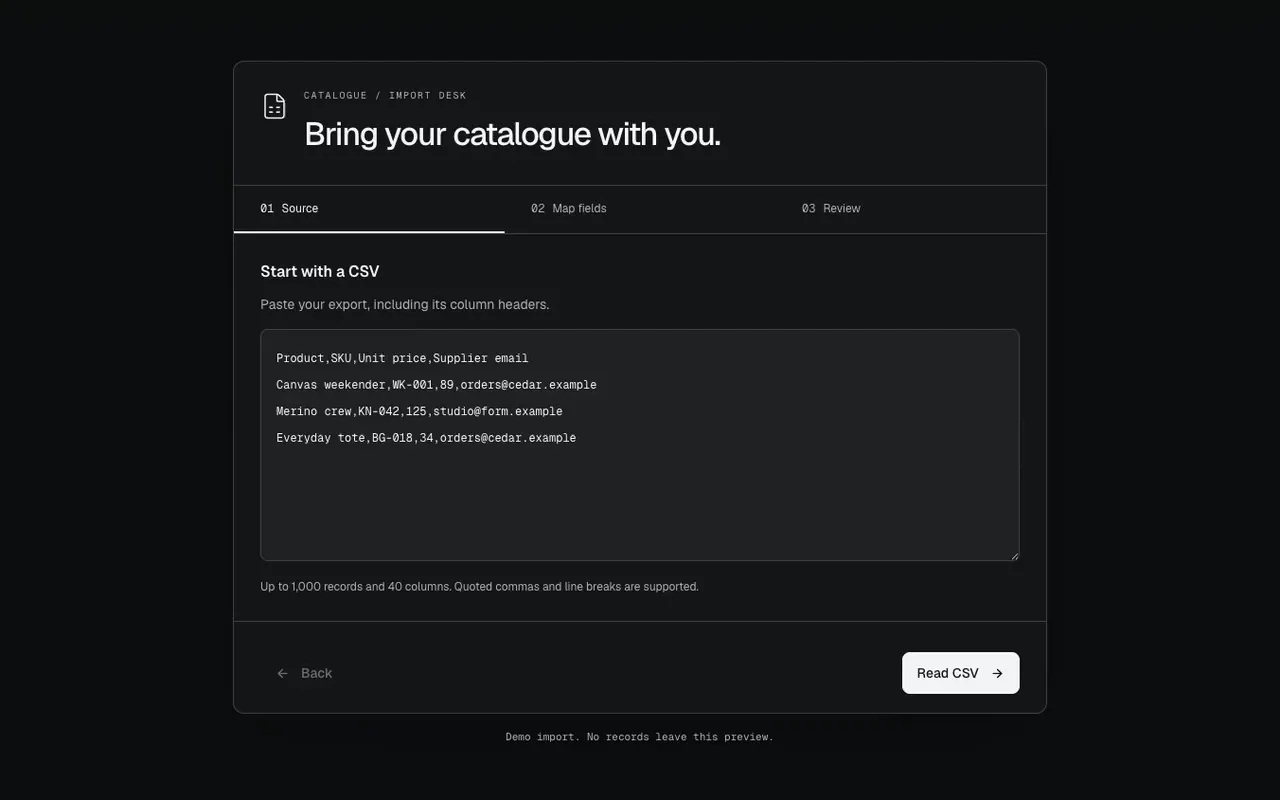
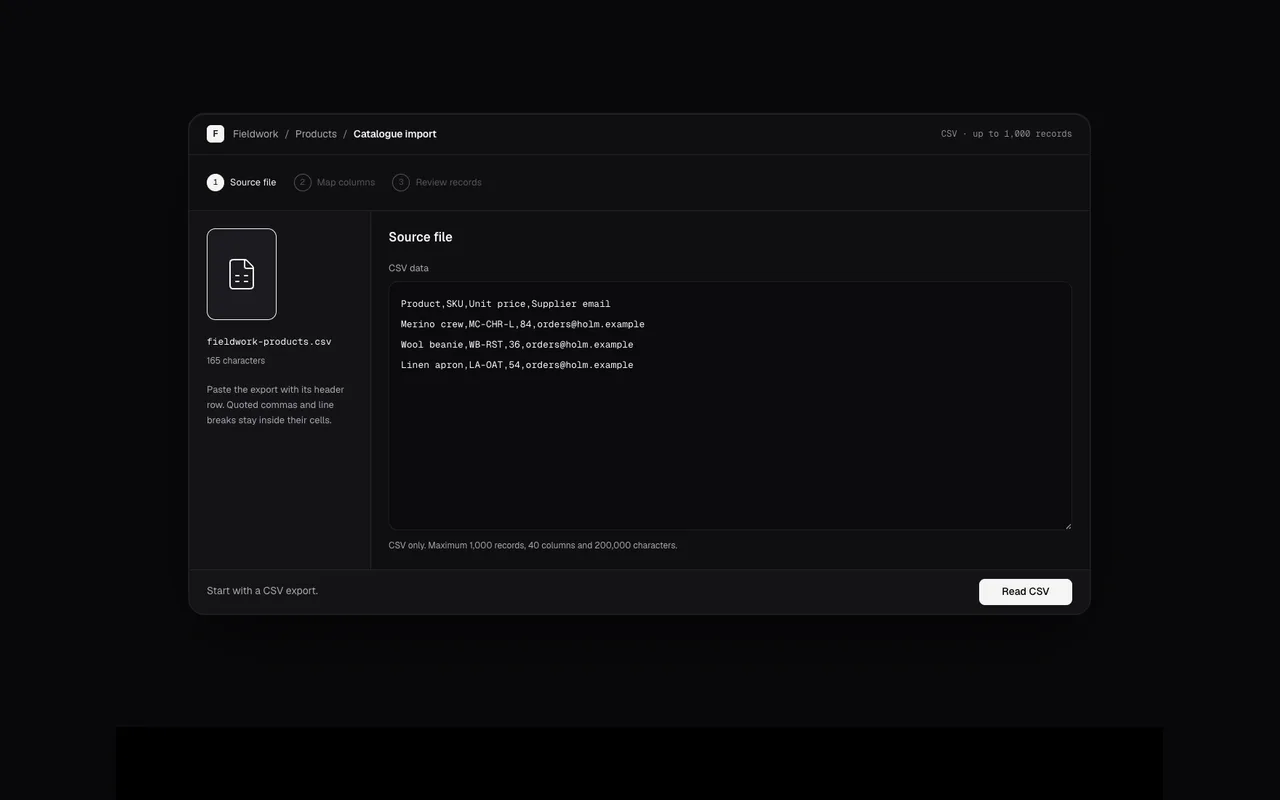
Verify Catalogue Import keyboard, validation and full-record workflows

diff --git a/docs/review/HANDOFF_TASKS.md b/docs/review/HANDOFF_TASKS.md
@@ -229,6 +229,10 @@ and how to know it's done. Pick any of them up independently. Background, briefs
 
 - Task 7: Variant Stock is rebuilt around product colourways, an editable size matrix and an exact changed-cell ledger. Its 29-mount source review and rewritten Next regression cover keyboard bounds, failed retry, pending locks, retained baselines, host mutation, raw ids and retired catalogues. Phone metadata stays readable; row totals sit beneath sticky identities so the last size remains clickable, and footer actions wrap inside their padding. Both-theme accessibility, six widths, entrance/state captures, touch targets, three preview controls, official audit and the complete 1,100px replay/poster pass, with strict registry, TypeScript and all 1,063 unit tests. Earlier failure alerts retire immediately after acknowledgement. Its new film joins task 1; 34 components and 12 blocks remain in task 7.
 
+- Task 1: Variant Stock now has a reviewed 3.8s film showing the Ink/XL adjustment from 3 to 5, the exact total of 197 units and its settled saved receipt. The complete framing matches the paired poster. Maximum source gap is 18ms, changed-source delivery is 28.2ms and moving-frame p95 is 17.5ms, with no stalls and every existing guard intact. 120 listed films remain.
+
+- Task 7: Catalogue Import is rebuilt as a CSV workbench with a document rail, column mapping and a paginated typed-record review. Its 31-mount source review and rewritten Next regression cover keyboard mapping and dismissal, parser bounds/quotes/BOM, required/unique/numeric/email checks, 25-record pagination with the full callback payload, retained retry, pending locks, host mutation and retired source revisions. Both-theme accessibility, six widths, entrance/state captures, touch targets, two visible preview controls, official audit and the complete 1,100px replay/poster pass. Singular record/column labels are corrected; the API retains native/custom mapping menus while opening-screen controls expose visible changes. Strict registry, TypeScript and all 1,063 unit tests pass. Its film joins task 1; 33 components and 12 blocks remain in task 7.
+
 ## Ground rules (read first)
 
 - Two repos. Public: `richawo/Design-components-for-AI-agents` (this one). Pro: `richawo/Design-for-AI`, private, cloned
@@ -246,9 +250,7 @@ and how to know it's done. Pick any of them up independently. Background, briefs
 - Browser checks: `node scripts/check-component.mjs <slug> --base=http://localhost:3100 --no-video --keep-going`
   (screenshots at 1440/768/390 and every control flip; read the screenshots it writes to `test-results/check/<slug>/`).
 
-- Task 1: Variant Stock now has a reviewed 3.8s film showing the Ink/XL adjustment from 3 to 5, the exact total of 197 units and its settled saved receipt. The complete framing matches the paired poster. Maximum source gap is 18ms, changed-source delivery is 28.2ms and moving-frame p95 is 17.5ms, with no stalls and every existing guard intact. 120 listed films remain.
-
-## 1. Re-record demo videos (120 components)
+## 1. Re-record demo videos (121 components)
 
 Every rebuilt component's poster is current but its catalogue film (`public/previews/<slug>.mp4`) still shows the old
 version. Record them one at a time on an otherwise idle machine; the recorder rejects frame stalls under load.
@@ -267,6 +269,7 @@ slug or per small group). Notes:
 
 Slugs:
 
+`commerce-catalog-import`
 `editor-font-pairing`, `editor-keyframe-track`
 `editor-layer-stack`, `editor-spacing-inspector`, `editor-storyboard-strip`, `editor-version-restore`
 `three-exploded-assembly`, `three-material-inspector`, `agents-budget-guard`, `agents-dependency-board`
@@ -396,15 +399,15 @@ All nine parked rebuilds are shipped in both repos. Their original `_wip/<slug>`
 | finance-budget-variance | Completed 17 October: Next probe, dark/light accessibility, responsive and entrance/state captures, live demo and refreshed poster pass. |
 | finance-cashflow-dashboard | Completed 17 October: weekly balance and in/out bars, movable payments, independent pending saves, invalid-data guards, selected-week list geometry, Next probe/demo, both-theme accessibility, responsive/state/entrance captures and refreshed poster pass. |
 
-## 7. Continue the review (34 components, then 12 blocks)
+## 7. Continue the review (33 components, then 12 blocks)
 
-Same process as the 164 already done: hold each to the first ~100 components' standard. Briefs:
+Same process as the 165 already done: hold each to the first ~100 components' standard. Briefs:
 `docs/review/REVIEW_BRIEF.md`, `docs/review/SUITE_BRIEF.md` for industry components, suite languages in
 `docs/review/suites/`. Work newest first, about four components per batch, and verify each (build, tsc, tests,
 check-component, your own captures of states and mid-entrance frames, a refreshed poster, a rewritten pro-50 probe for
 industry components).
 
-- **Commerce** (copy `suites/commerce.md`): commerce-catalog-import. `block-commerce-workspace` imports commerce-return-desk: keep its call site working.
+- **Commerce** is reviewed. Keep `block-commerce-workspace` compatible with its rebuilt parts.
 - **Others**: app-permission-matrix, legal-version-history (`suites/legal.md`), hr-capacity-planner (`suites/hr.md`),
   data-query-builder.
 - **Smaller components** (#151–179): chart-waterfall-bridge, content-release-notes, cards-event-ticket,

diff --git a/docs/review/STATUS.md b/docs/review/STATUS.md
@@ -1,6 +1,6 @@
 # Review status
 
-164 components are rebuilt (or, for a few, polished), verified and committed. For each: whether its demo video
+165 components are rebuilt (or, for a few, polished), verified and committed. For each: whether its demo video
 needs re-recording, whether its poster is current, and the state of its browser regression probe.
 
 - **Video**: `new` means `public/previews/<slug>.mp4` still shows the old version. Re-record serially on a quiet machine:
@@ -177,10 +177,11 @@ Measurements, checkout revisions and package diagnostics are recorded in
 | `fashion-size-guide` | new | current | source-fixture regression/demo, native palettes, both-theme accessibility and responsive/state/entrance captures pass |
 | `fashion-wholesale-order` | new | current | rewritten, passes |
 
-## Commerce suite (10)
+## Commerce suite (11)
 
 | Slug | Video | Poster | Probe |
 | --- | --- | --- | --- |
+| `commerce-catalog-import` | new | current | Rebuilt CSV/mapping/typed-record workbench; 31-mount source review and Next keyboard/parser/validation/pagination/exact-payload/retry/pending/mutation/revision regression pass. Both-theme accessibility, six widths, entrance/state captures, touch targets, two visible controls, official audit and complete 1,100px replay/poster pass. Native/custom mapping remains an API option; singular count labels are correct. Strict registry, TypeScript and all 1,063 unit tests pass. |
 | `commerce-variant-stock` | current | current | Rebuilt product matrix and changed-cell ledger; 29-mount source review, keyboard/exact-snapshot/retry/pending/mutation/revision Next regression, both-theme accessibility, six widths, entrance/state captures, 44px touch targets, three controls, official audit and full 1,100px replay/poster pass. Sticky phone totals keep the last size clickable; footer actions fit their padding and stale alerts retire. Reviewed 3.8s film shows the exact 197-unit saved state and passes every recording guard. Strict registry, TypeScript and all 1,063 unit tests pass. |
 | `commerce-return-desk` | current | current | Rebuilt item ledger and return slip; 25-mount source review plus both-theme normal-motion phase guard, exact-amount/retry/pending/revision/retained-edit Next regression, Commerce Workspace integration, both-theme accessibility, six widths, entrance/state captures, 44px touch targets, two controls, official audit and complete 1,100px demo/poster pass. Strict registry, TypeScript and all 1,063 unit tests pass. Reviewed 6.0s selection/note/review/record film and paired poster are current. Retiring feedback is inert and leaves the accessibility tree immediately. |
 | `commerce-operations-dashboard` | current | current | Rebuilt revenue/flow/channel dashboard; 24-mount source review, Next exact-total/inspection/history/empty regression, full-month replay, both-theme accessibility, six widths, entrance/state captures, two controls and official audit pass. Measured 1,240px preview and refreshed poster retain the whole ledger; reviewed 3.2s Retail/month film and paired poster are current. |
